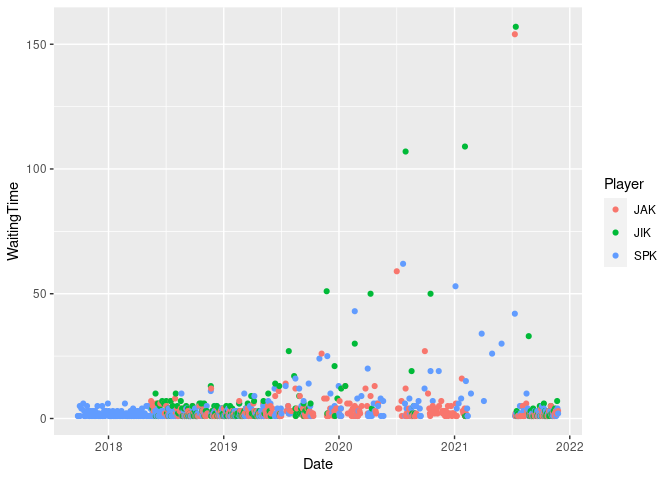
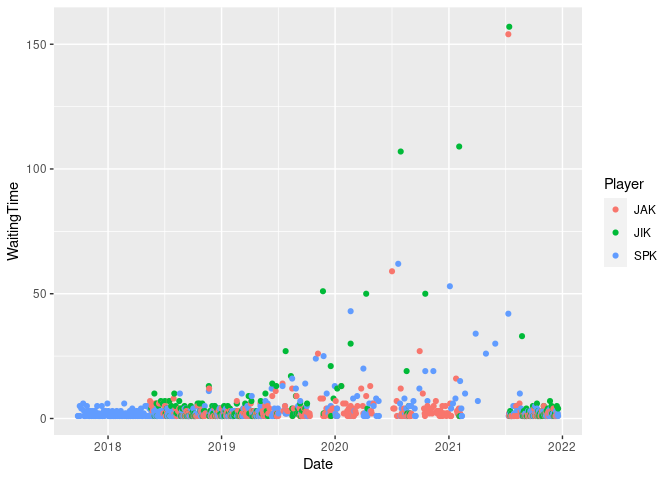
Added new observations, reran report

diff --git a/analysis/nyt_mini_crossword.md b/analysis/nyt_mini_crossword.md
@@ -1,7 +1,7 @@
 ---
 title: "New York Time Mini Crossword"
 author: "Stephen Kaluzny"
-date: "25 November, 2021"
+date: "18 December, 2021"
 output:
   html_document:
     keep_md: true
@@ -167,7 +167,7 @@ d %>%
 
 ## Summary Statistics
 
-Current data set has 1252 observations.
+Current data set has 1298 observations.
 
 
 ```r
@@ -182,10 +182,10 @@ d %>% group_by(Player) %>%
 ##   <chr>  <dbl>  <dbl> <dbl> <dbl> <int>
 ## 1 SKK     51     47      21    89     4
 ## 2 AKK     55     55      55    55     1
-## 3 JIK     76.9   59.5    13   264   242
-## 4 SPK    103.    84      18   930   498
-## 5 JAK    102.    86      27   454   446
-## 6 BBK    116.   102      42   350    61
+## 3 JIK     76.5   59.5    13   264   252
+## 4 SPK    101.    84      18   455   514
+## 5 JAK    103.    86      27   454   460
+## 6 BBK    115.   102      42   350    67
 ```
 
 ## Subset the Data
@@ -200,7 +200,7 @@ d <- d %>%
   filter(Player %in% c("SPK", "JAK", "JIK"))
 ```
 
-Now have 1186 observations.
+Now have 1226 observations.
 
 ## Plots
 
@@ -308,13 +308,13 @@ sessionInfo()
 ```
 
 ```
-## R version 4.1.1 (2021-08-10)
+## R version 4.1.2 (2021-11-01)
 ## Platform: x86_64-pc-linux-gnu (64-bit)
 ## Running under: Ubuntu 20.04.3 LTS
 ## 
 ## Matrix products: default
-## BLAS:   /home/R/R-4.1.1/lib/R/lib/libRblas.so
-## LAPACK: /home/R/R-4.1.1/lib/R/lib/libRlapack.so
+## BLAS:   /home/R/R-4.1.2/lib/R/lib/libRblas.so
+## LAPACK: /home/R/R-4.1.2/lib/R/lib/libRlapack.so
 ## 
 ## locale:
 ##  [1] LC_CTYPE=en_US.UTF-8       LC_NUMERIC=C              
@@ -331,16 +331,16 @@ sessionInfo()
 ## [1] ggplot2_3.3.5 dplyr_1.0.7   tidyr_1.1.4   assertr_2.8  
 ## 
 ## loaded via a namespace (and not attached):
-##  [1] highr_0.9        pillar_1.6.4     bslib_0.3.1      compiler_4.1.1  
-##  [5] jquerylib_0.1.4  tools_4.1.1      digest_0.6.28    lubridate_1.8.0 
+##  [1] highr_0.9        pillar_1.6.4     bslib_0.3.1      compiler_4.1.2  
+##  [5] jquerylib_0.1.4  tools_4.1.2      digest_0.6.29    lubridate_1.8.0 
 ##  [9] jsonlite_1.7.2   evaluate_0.14    lifecycle_1.0.1  tibble_3.1.6    
 ## [13] gtable_0.3.0     pkgconfig_2.0.3  rlang_0.4.12     cli_3.1.0       
-## [17] DBI_1.1.1        yaml_2.2.1       xfun_0.28        fastmap_1.1.0   
-## [21] withr_2.4.2      stringr_1.4.0    knitr_1.36       hms_1.1.1       
+## [17] DBI_1.1.1        yaml_2.2.1       xfun_0.29        fastmap_1.1.0   
+## [21] withr_2.4.3      stringr_1.4.0    knitr_1.37       hms_1.1.1       
 ## [25] generics_0.1.1   vctrs_0.3.8      sass_0.4.0       rprojroot_2.0.2 
-## [29] grid_4.1.1       tidyselect_1.1.1 here_1.0.1       glue_1.5.0      
+## [29] grid_4.1.2       tidyselect_1.1.1 here_1.0.1       glue_1.6.0      
 ## [33] R6_2.5.1         fansi_0.5.0      rmarkdown_2.11   farver_2.1.0    
 ## [37] purrr_0.3.4      magrittr_2.0.1   scales_1.1.1     ellipsis_0.3.2  
 ## [41] htmltools_0.5.2  assertthat_0.2.1 colorspace_2.0-2 labeling_0.4.2  
-## [45] utf8_1.2.2       stringi_1.7.5    munsell_0.5.0    crayon_1.4.2
+## [45] utf8_1.2.2       stringi_1.7.6    munsell_0.5.0    crayon_1.4.2
 ```
